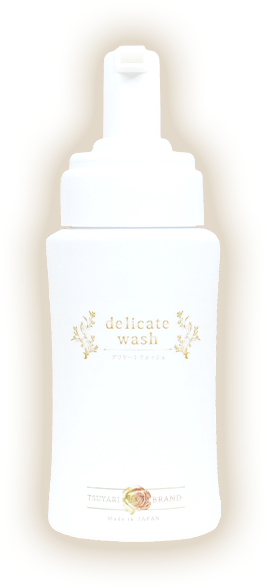
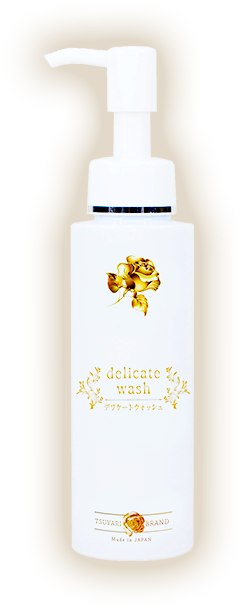
講習ページのtopImageの画像、HOMEのページの導入講習制度の画像を人の顔が写らないようにトリミングした画像で置き換えました。また、デリケートウォッシュの画像を差し替えました。

diff --git a/css/kosyu_tablet.css b/css/kosyu_tablet.css
@@ -132,13 +132,45 @@ body {
   opacity: 0.6;
 }
 
-.main__topImage {
+.main-topImage {
+  width: 100vw;
+  height: calc(544 / 1400 * 100vw);
+  background: url("../kosyu_image/bg_Topimage.png") bottom center/contain no-repeat;
   padding-top: 80px;
 }
 
-.main__topImage img {
-  display: block;
-  width: 100%;
+.main-topImage h2 {
+  font-family: '游明朝','Yu Mincho',YuMincho,'Hiragino Mincho Pro',serif;
+  font-weight: 600;
+  text-align: center;
+  padding-top: calc(139 / 1400 * 100vw);
+  font-size: 4vw;
+  color: #841d08;
+  text-shadow: 0 0 12px #fff, 0 0 12px #fff, 0 0 12px #fff, 0 0 12px #fff, 0 0 12px #fff;
+}
+
+.main-topImage h3 {
+  font-family: '游明朝','Yu Mincho',YuMincho,'Hiragino Mincho Pro',serif;
+  font-weight: 600;
+  text-align: center;
+  margin-top: calc(38 / 1400 * 100vw);
+  font-size: 2.29vw;
+  color: #841d08;
+  text-shadow: 0 0 12px #fff, 0 0 12px #fff, 0 0 12px #fff, 0 0 12px #fff, 0 0 12px #fff, 0 0 12px #fff, 0 0 12px #fff, 0 0 12px #fff, 0 0 12px #fff, 0 0 12px #fff;
+}
+
+.main-topImage__textBox {
+  margin-top: calc(62 / 1400 * 100vw);
+}
+
+.main-topImage__textBox p {
+  font-family: '游明朝','Yu Mincho',YuMincho,'Hiragino Mincho Pro',serif;
+  font-weight: 600;
+  text-align: center;
+  font-size: 1.43vw;
+  color: #64533d;
+  line-height: calc(32 / 1400 * 100vw);
+  text-shadow: 0 0 12px #fff, 0 0 12px #fff, 0 0 12px #fff, 0 0 12px #fff, 0 0 12px #fff, 0 0 12px #fff, 0 0 12px #fff, 0 0 12px #fff, 0 0 12px #fff, 0 0 12px #fff, 0 0 12px #fff;
 }
 
 /*見出し*/

diff --git a/css/kosyu_pc.css b/css/kosyu_pc.css
@@ -132,12 +132,45 @@ body {
   opacity: 0.6;
 }
 
-.main__topImage {
+.main-topImage {
+  width: 100vw;
+  height: calc(544 / 1400 * 100vw);
+  background: url("../kosyu_image/bg_Topimage.png") bottom center/contain no-repeat;
   padding-top: 80px;
 }
 
-.main__topImage img {
-  width: 100%;
+.main-topImage h2 {
+  font-family: '游明朝','Yu Mincho',YuMincho,'Hiragino Mincho Pro',serif;
+  font-weight: 600;
+  text-align: center;
+  padding-top: calc(139 / 1400 * 100vw);
+  font-size: 4vw;
+  color: #841d08;
+  text-shadow: 0 0 12px #fff, 0 0 12px #fff, 0 0 12px #fff, 0 0 12px #fff, 0 0 12px #fff;
+}
+
+.main-topImage h3 {
+  font-family: '游明朝','Yu Mincho',YuMincho,'Hiragino Mincho Pro',serif;
+  font-weight: 600;
+  text-align: center;
+  margin-top: calc(38 / 1400 * 100vw);
+  font-size: 2.29vw;
+  color: #841d08;
+  text-shadow: 0 0 12px #fff, 0 0 12px #fff, 0 0 12px #fff, 0 0 12px #fff, 0 0 12px #fff, 0 0 12px #fff, 0 0 12px #fff, 0 0 12px #fff, 0 0 12px #fff, 0 0 12px #fff;
+}
+
+.main-topImage__textBox {
+  margin-top: calc(62 / 1400 * 100vw);
+}
+
+.main-topImage__textBox p {
+  font-family: '游明朝','Yu Mincho',YuMincho,'Hiragino Mincho Pro',serif;
+  font-weight: 600;
+  text-align: center;
+  font-size: 1.43vw;
+  color: #64533d;
+  line-height: calc(32 / 1400 * 100vw);
+  text-shadow: 0 0 12px #fff, 0 0 12px #fff, 0 0 12px #fff, 0 0 12px #fff, 0 0 12px #fff, 0 0 12px #fff, 0 0 12px #fff, 0 0 12px #fff, 0 0 12px #fff, 0 0 12px #fff, 0 0 12px #fff;
 }
 
 /*見出し*/

diff --git a/css/kosyu_pc.scss b/css/kosyu_pc.scss
@@ -63,10 +63,39 @@ body {
         }
     }
 }
-.main__topImage {
+.main-topImage {
+    width: 100vw;
+    height: calc(544 / 1400 * 100vw);
+    background: url('../kosyu_image/bg_Topimage.png') bottom center / contain no-repeat;
     padding-top: 80px;
-    img {
-        width: 100%;
+    @mixin topImageText {
+        font-family: '游明朝','Yu Mincho',YuMincho,'Hiragino Mincho Pro',serif;
+        font-weight: 600;
+        text-align: center;
+    }
+    h2 {
+        @include topImageText;
+        padding-top: calc(139 / 1400 * 100vw);
+        font-size: 4vw;
+        color: #841d08;
+        text-shadow: 0 0 12px #fff, 0 0 12px #fff, 0 0 12px #fff, 0 0 12px #fff, 0 0 12px #fff;
+    }
+    h3 {
+        @include topImageText;
+        margin-top: calc(38 / 1400 * 100vw);
+        font-size: 2.29vw;
+        color: #841d08;
+        text-shadow: 0 0 12px #fff, 0 0 12px #fff, 0 0 12px #fff, 0 0 12px #fff, 0 0 12px #fff, 0 0 12px #fff, 0 0 12px #fff, 0 0 12px #fff, 0 0 12px #fff, 0 0 12px #fff;
+    }
+    &__textBox {
+        margin-top: calc(62 / 1400 * 100vw);
+        p {
+            @include topImageText;
+            font-size: 1.43vw;
+            color: #64533d;
+            line-height: calc(32 / 1400 * 100vw);
+            text-shadow: 0 0 12px #fff, 0 0 12px #fff, 0 0 12px #fff, 0 0 12px #fff, 0 0 12px #fff, 0 0 12px #fff, 0 0 12px #fff, 0 0 12px #fff, 0 0 12px #fff, 0 0 12px #fff, 0 0 12px #fff;
+        }
     }
 }
 /*見出し*/

diff --git a/kosyu.html b/kosyu.html
@@ -31,8 +31,14 @@
 </div>
 </header>
 <main>
-<div class="main__topImage simple-fadeIn show1" id="top" name="top">
-    <img src="./kosyu_image/topImage.png" alt="安心の導入講習制度 艶人ブランド独自のオリジナルコース 艶人ブランドを安心して導入していただくための講習制度も完備しています。導入初心者から経験のある方まで、幅広く学んでいただけるコース内容になっています。" id="topImage">
+<div class="main-topImage simple-fadeIn show1" id="top" name="top">
+    <h2>安心の導入講習制度</h2>
+    <h3>艶人ブランド独自のオリジナルコース</h3>
+    <div class="main-topImage__textBox">
+        <p>艶人ブランドを安心して導入していただくための講習制度</p>
+        <p>も完備しています。導入初心者から経験のある方まで、幅</p>
+        <p>広く学んでいただけるコース内容になっています。</p>
+    </div>
 </div>
 <div class="main-wrapper">
     <div class="main-wrapper__headline slide-bottom show2">
